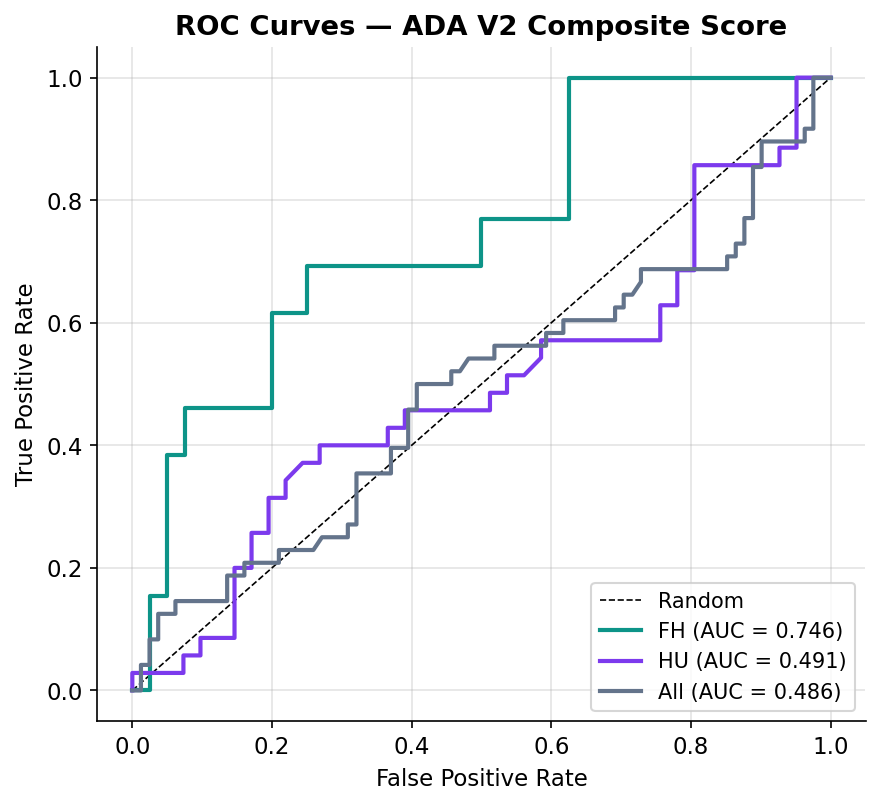
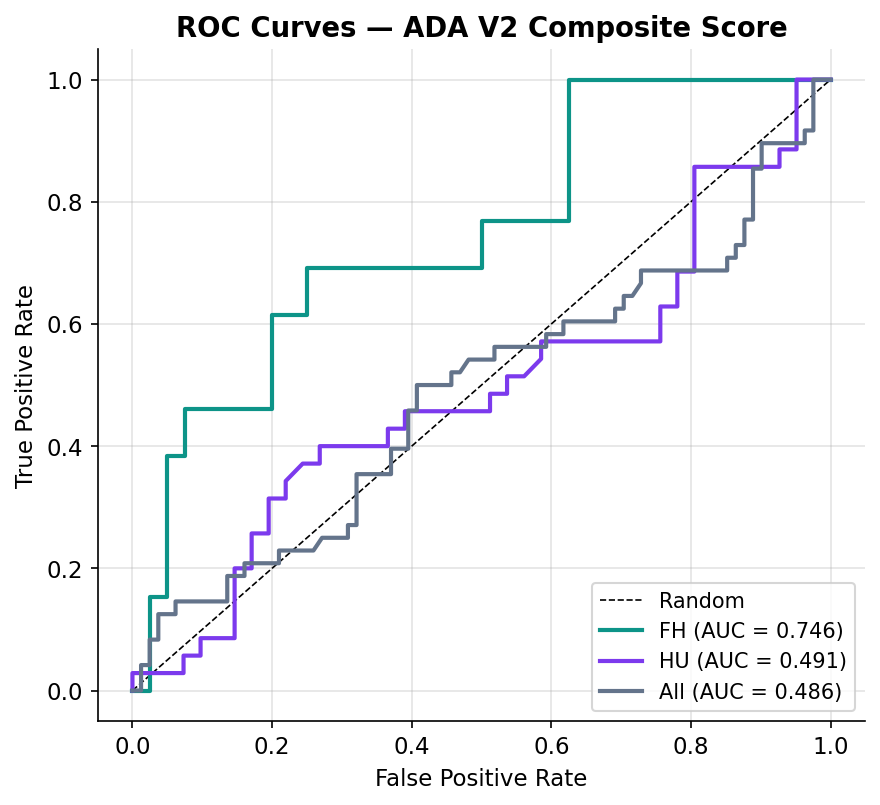
fix: restore missing PD-L1 case study images and update whitepaper/pitch deck layout
Made-with: Cursor

diff --git a/pitch desk/InSynBio_Pitch_Deck.html b/pitch desk/InSynBio_Pitch_Deck.html
@@ -947,17 +947,17 @@ body.mode-light .slide li::before { color: #0d9488 !important; }
       <div class="card card-accent card-teal" style="background:rgba(255,255,255,0.02); display:flex; flex-direction:column; justify-content:space-between;">
         <h4 style="font-size:18px; color:#fff; margin-bottom:8px;">Bispecific VHH Formats</h4>
         <p style="font-size:14px; color:rgba(255,255,255,0.7);">pI engineering: 8.2 → 6.8 stability. 4.8× expression increment via GS-8 linker design.</p>
-        <a href="case_bispecific_vhh_expression_optimization.html" target="_blank" style="font-size:12px; color:#5eead4; text-decoration:none; margin-top:12px;">View Comprehensive Report ↗</a>
+        <a href="../case_bispecific_vhh_expression_optimization.html" target="_blank" style="font-size:12px; color:#5eead4; text-decoration:none; margin-top:12px;">View Comprehensive Report ↗</a>
       </div>
       <div class="card card-accent card-amber" style="background:rgba(255,255,255,0.02); display:flex; flex-direction:column; justify-content:space-between;">
         <h4 style="font-size:18px; color:#fff; margin-bottom:8px;">Small Molecule VAM</h4>
         <p style="font-size:14px; color:rgba(255,255,255,0.7);">Matching binder affinity for commercial assay thresholds; ΔΔG −5.53 kcal/mol yields.</p>
-        <a href="case_fentanyl_hapten_vam.html" target="_blank" style="font-size:12px; color:#5eead4; text-decoration:none; margin-top:12px;">View Comprehensive Report ↗</a>
+        <a href="../case_fentanyl_hapten_vam.html" target="_blank" style="font-size:12px; color:#5eead4; text-decoration:none; margin-top:12px;">View Comprehensive Report ↗</a>
       </div>
       <div class="card card-accent card-green" style="background:rgba(255,255,255,0.02); display:flex; flex-direction:column; justify-content:space-between;">
         <h4 style="font-size:18px; color:#fff; margin-bottom:8px;">PD-L1 Epitope Map</h4>
         <p style="font-size:14px; color:rgba(255,255,255,0.7);">Unveiled sterical blocking domains; validated MOA with PRODIGY scores (−10.8 vs −7.3).</p>
-        <a href="case_pdl1_epitope_analysis.html" target="_blank" style="font-size:12px; color:#5eead4; text-decoration:none; margin-top:12px;">View Comprehensive Report ↗</a>
+        <a href="../case_pdl1_epitope_analysis.html" target="_blank" style="font-size:12px; color:#5eead4; text-decoration:none; margin-top:12px;">View Comprehensive Report ↗</a>
       </div>
     </div>
 
@@ -967,22 +967,22 @@ body.mode-light .slide li::before { color: #0d9488 !important; }
       <div class="card card-accent card-violet" style="background:rgba(255,255,255,0.02); display:flex; flex-direction:column; justify-content:space-between;">
         <h4 style="font-size:16px; color:#fff; margin-bottom:6px;">Humanization SOP</h4>
         <p style="font-size:13px; color:rgba(255,255,255,0.6);">muMAb4D5: 100% structural binding preservation using 842-profile germlines.</p>
-        <a href="case_mumab4d5_humanization_en.html" target="_blank" style="font-size:11px; color:#5eead4; text-decoration:none; margin-top:8px;">Validation Link ↗</a>
+        <a href="../case_mumab4d5_humanization_en.html" target="_blank" style="font-size:11px; color:#5eead4; text-decoration:none; margin-top:8px;">Validation Link ↗</a>
       </div>
       <div class="card card-accent card-violet" style="background:rgba(255,255,255,0.02); display:flex; flex-direction:column; justify-content:space-between;">
         <h4 style="font-size:16px; color:#fff; margin-bottom:6px;">CMC 15D Benchmarking</h4>
         <p style="font-size:13px; color:rgba(255,255,255,0.6);">Validated 15 core parameters; mapped to 1,142 clinical assets (IDI 77/100).</p>
-        <a href="case_mumab4d5_cmc.html" target="_blank" style="font-size:11px; color:#5eead4; text-decoration:none; margin-top:8px;">Validation Link ↗</a>
+        <a href="../case_mumab4d5_cmc.html" target="_blank" style="font-size:11px; color:#5eead4; text-decoration:none; margin-top:8px;">Validation Link ↗</a>
       </div>
       <div class="card card-accent card-violet" style="background:rgba(255,255,255,0.02); display:flex; flex-direction:column; justify-content:space-between;">
-        <h4 style="font-size:16px; color:#fff; margin-bottom:6px;">Affinity VAM (Malaria)</h4>
-        <p style="font-size:13px; color:rgba(255,255,255,0.6);">Multi-target signaling models via ACTES 237-Component Screenings.</p>
-        <a href="case_malaria_carm_design.html" target="_blank" style="font-size:11px; color:#5eead4; text-decoration:none; margin-top:8px;">Validation Link ↗</a>
+        <h4 style="font-size:16px; color:#fff; margin-bottom:6px;">HER2 VHH Affinity VAM</h4>
+        <p style="font-size:13px; color:rgba(255,255,255,0.6);">Binding energy improved −3.32 kcal/mol via epistatic double mutant G49A+F112L.</p>
+        <a href="../case_vgrw_sr_r2_affinity_maturation.html" target="_blank" style="font-size:11px; color:#5eead4; text-decoration:none; margin-top:8px;">Validation Link ↗</a>
       </div>
       <div class="card card-accent card-violet" style="background:rgba(255,255,255,0.02); display:flex; flex-direction:column; justify-content:space-between;">
         <h4 style="font-size:16px; color:#fff; margin-bottom:6px;">CDR Core Redesign</h4>
         <p style="font-size:13px; color:rgba(255,255,255,0.6);">ProteinMPNN IP circumvention; deriving novel backbone topologies.</p>
-        <a href="case_vgrw_cdr_redesign_remat.html" target="_blank" style="font-size:11px; color:#5eead4; text-decoration:none; margin-top:8px;">Validation Link ↗</a>
+        <a href="../case_vgrw_cdr_redesign_remat.html" target="_blank" style="font-size:11px; color:#5eead4; text-decoration:none; margin-top:8px;">Validation Link ↗</a>
       </div>
     </div>
   </div>
@@ -1003,21 +1003,21 @@ body.mode-light .slide li::before { color: #0d9488 !important; }
           <h4 style="font-size:20px; color:#fff; margin-bottom:8px;">ADC Decision Engine: CLDN18.2 Case</h4>
           <p style="font-size:15px; color:rgba(255,255,255,0.7); line-height:1.6;">Navigating extreme Gastric Cancer heterogeneity. Optimizing for CLDN18.2 Moderate/Slow internalization & Low shedding based on target profiling metrics.</p>
         </div>
-        <a href="InSynBio_ADC_Design_Page.html" target="_blank" style="font-size:12px; color:#5eead4; text-decoration:none; margin-top:16px;">Case Study: Intelligent Design for Gastric Cancer ↗</a>
+        <a href="../InSynBio_ADC_Design_Page.html" target="_blank" style="font-size:12px; color:#5eead4; text-decoration:none; margin-top:16px;">Case Study: Intelligent Design for Gastric Cancer ↗</a>
       </div>
       <div class="card" style="border-left: 3px solid #ef4444; padding:24px; background:rgba(255,255,255,0.02); display:flex; flex-direction:column; justify-content:space-between;">
         <div>
           <h4 style="font-size:20px; color:#fff; margin-bottom:8px;">CAR-T Modality Architect</h4>
           <p style="font-size:15px; color:rgba(255,255,255,0.7); line-height:1.6;">Precision modular signaling assembly using the InSynBio 237-binder library, optimizing for CAR durability against solid tumor microenvironments.</p>
         </div>
-        <a href="case_malaria_carm_design.html" target="_blank" style="font-size:12px; color:#5eead4; text-decoration:none; margin-top:16px;">Case Study: Anti-CIDRα1 Dual-Binder CAR-Macrophage Design ↗</a>
+        <a href="../case_malaria_carm_design.html" target="_blank" style="font-size:12px; color:#5eead4; text-decoration:none; margin-top:16px;">Case Study: Anti-CIDRα1 Dual-Binder CAR-Macrophage Design ↗</a>
       </div>
       <div class="card" style="border-left: 3px solid #5eead4; padding:24px; background:rgba(255,255,255,0.02); display:flex; flex-direction:column; justify-content:space-between;">
         <div>
           <h4 style="font-size:20px; color:#fff; margin-bottom:8px;">Vaccine Design Suite</h4>
           <p style="font-size:15px; color:rgba(255,255,255,0.7); line-height:1.6;">Rational antigen scaffolding & multi-allelic epitope assembly suites verified against 109 core MHC records and clinical immunogenicity evidence.</p>
         </div>
-        <a href="vaccine_design.html" target="_blank" style="font-size:12px; color:#5eead4; text-decoration:none; margin-top:16px;">KRAS G12D Neoantigen Multi-Epitope mRNA Design — Case Study ↗</a>
+        <a href="../vaccine_design.html" target="_blank" style="font-size:12px; color:#5eead4; text-decoration:none; margin-top:16px;">KRAS G12D Neoantigen Multi-Epitope mRNA Design — Case Study ↗</a>
       </div>
     </div>
 

diff --git a/InSynBio_ADC_Design_Page.html b/InSynBio_ADC_Design_Page.html
@@ -861,3 +861,5 @@
 
 
 
+
+
